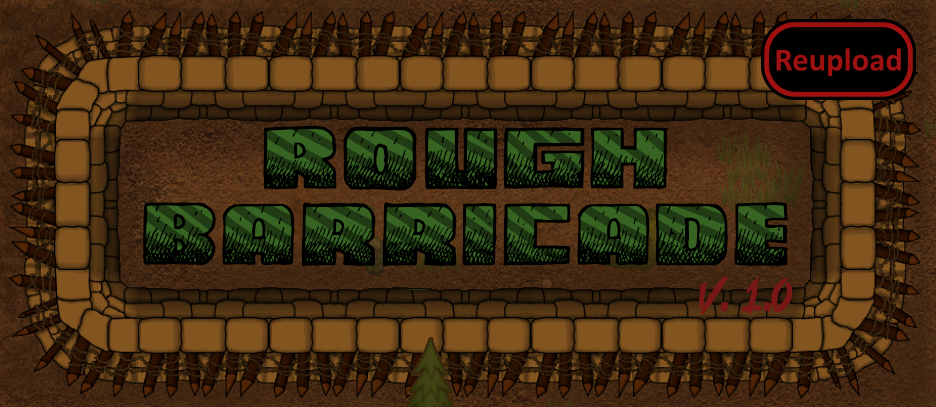
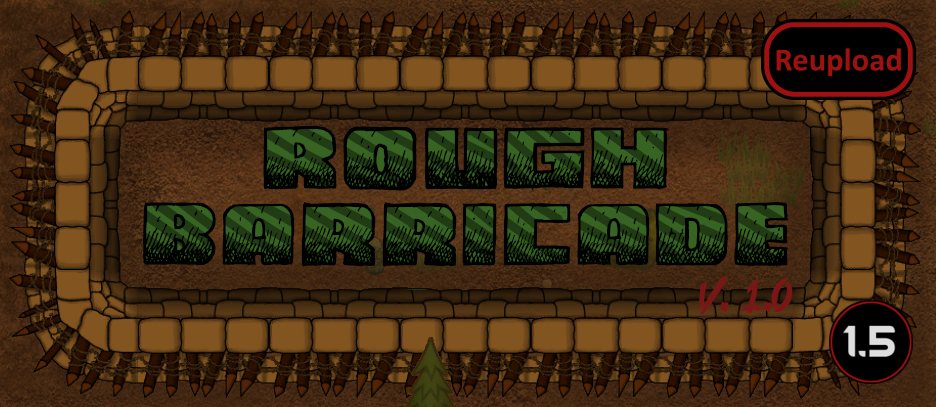
Mod updated for 1.5 and passed autotests

Changed region(s): [[0.8675, 0.7371, 0.9915, 0.9435]]

diff --git a/README.md b/README.md
@@ -55,11 +55,13 @@ Small syntax error fixed
 
 -  See if the the error persists if you just have this mod and its requirements active.
 -  If not, try adding your other mods until it happens again.
--  Post your error-log using https://steamcommunity.com/workshop/filedetails/?id=818773962]HugsLib and command Ctrl+F12
+-  Post your error-log using https://steamcommunity.com/workshop/filedetails/?id=818773962]HugsLib or the standalone https://steamcommunity.com/sharedfiles/filedetails/?id=2873415404]Uploader and command Ctrl+F12
 -  For best support, please use the Discord-channel for error-reporting.
 -  Do not report errors by making a discussion-thread, I get no notification of that.
 -  If you have the solution for a problem, please post it to the GitHub repository.
+-  Use https://github.com/RimSort/RimSort/releases/latest]RimSort to sort your mods
 
 
 
+https://steamcommunity.com/sharedfiles/filedetails/changelog/2590264481]![Image](https://img.shields.io/github/v/release/emipa606/RoughBarricade?label=latest%20version&style=plastic&color=9f1111&labelColor=black)
 
